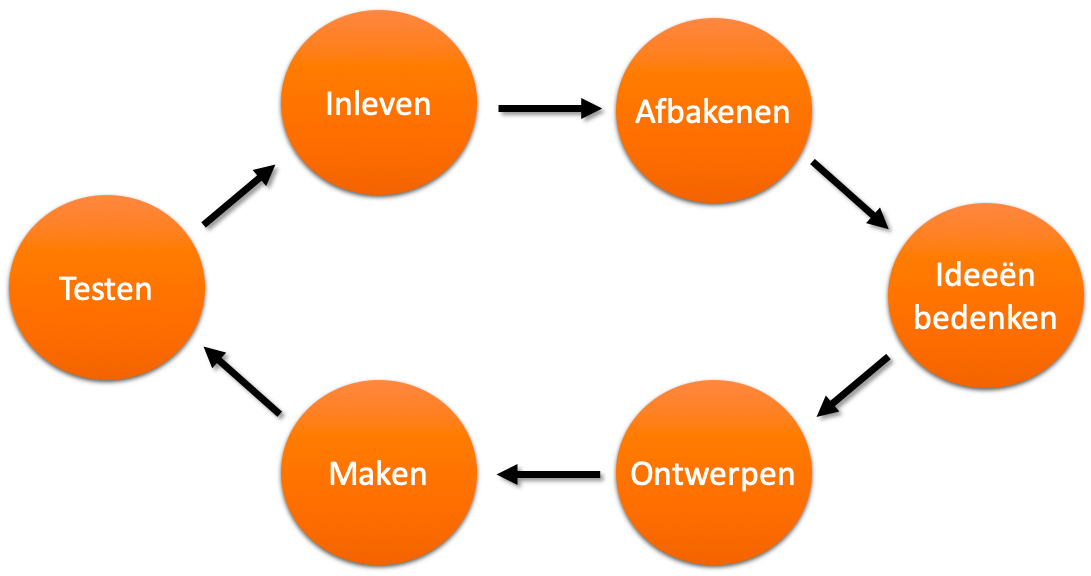
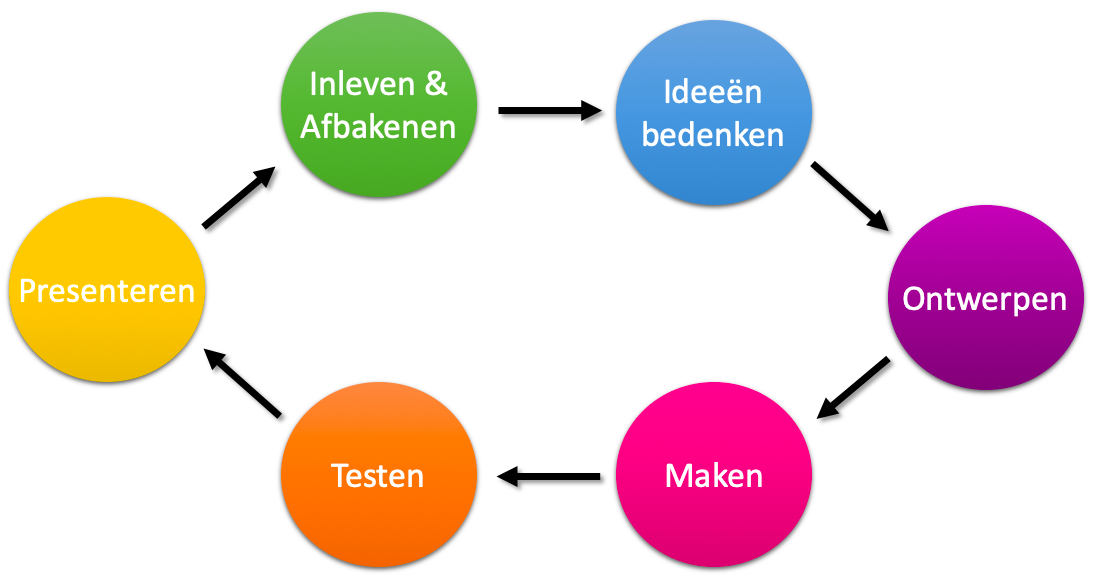
Optimalisatie

diff --git a/README.md b/README.md
@@ -1,19 +1,23 @@
-# Leren Programmeren - vaardigheden voor de 21e eeuw
-Cursusmateriaal voor Leren Programmeren op basis van Scratch en BeeBot
+# Leren Programmeren - vaardigheden van de 21e eeuw
+Cursusmateriaal voor Leren Programmeren op basis van Scratch en BeeBot. Vaardigheden van de 21e eeuw leren door te doen.
 
-## Design thinking
+## Design thinking ("ontwerpend leren")
 "Programmeren" gaat over creatie: het maken van nieuwe dingen. Creatieve mensen kunnen ontzettend goed zijn in programmeren! En er komt meer kijken bij programmeren. Je bent met programmeren bezig met het oplossen van een probleem. En niet zomaar een probleem, maar een probleem van iemand anders! Je kunt je inleven in het probleem van de ander. En je kunt plannen, je kijkt vooruit hoe je dit probleem kunt oplossen. Dit komt samen in de stappen van design thinking:
 
-1. Inleven: je verzamelt informatie over het probleem dat je voor de ander wilt oplossen. Je probeert te begrijpen waar de ander mee zit.
-2. Afbakenen: je kiest wat je wel en niet gaat oplossen. Je kunt niet alles doen! Je bedenkt wat jij kunt oplossen van het probleem van de ander.
-3. Ideeën bedenken: je gaat verzinnen hoe je het probleem kunt oplossen. Niets is hier te gek! Hoe meer ideeën hoe beter!
-4. Ontwerpen: uit alle ideeën kies je wat het beste werkt. Wat het beste het probleem oplost, en door jou goed is te maken. Je beschrijft zo goed mogelijk hoe jou oplossing in elkaar zit, en denkt alvast na wat er eventueel mis kan gaan.
-5. Maken: je gaat aan de slag om je ontwerp te maken!
-6. Testen: nadat het maken van de oplossing, ga je het testen. Je probeert uit of jou oplossing het probleem oplost. Je laat het zien aan anderen, en aan de persoon voor wie je een oplossing hebt bedacht.
+1. Inleven & afbakenen: je verzamelt informatie over het probleem dat je voor de ander wilt oplossen. Je probeert te begrijpen waar de ander mee zit. Je kiest wat je wel en niet gaat oplossen. Je kunt niet alles doen! Je bedenkt wat jij kunt oplossen van het probleem van de ander.
+2. Ideeën bedenken: je gaat verzinnen hoe je het probleem kunt oplossen. Niets is hier te gek! Hoe meer ideeën hoe beter!
+3. Ontwerpen: uit alle ideeën kies je wat het beste werkt. Wat het beste het probleem oplost, en door jou goed is te maken. Je beschrijft zo goed mogelijk hoe jou oplossing in elkaar zit, en denkt alvast na wat er eventueel mis kan gaan.
+4. Maken: je gaat aan de slag om je ontwerp te maken!
+5. Testen: nadat het maken van de oplossing, ga je het testen. Je probeert uit of jou oplossing het probleem oplost. Je laat het zien aan anderen, en aan de persoon voor wie je een oplossing hebt bedacht.
+6. Presenteren: je laat je oplossing zien.
 
 Design thinking is een herhalend proces: het kan zijn dat je oplossing bij het testen toch nog niet helemaal goed is. Geeft niet! Hoe meer je probeert, hoe beter je oplossing wordt. Je hoeft dus niet helemaal opnieuw te beginnen. Je zult zien dat je de stappen steeds sneller zult doorlopen.
 
 ![Design Thinking](/media/design-thinking.png)
+
+Dit filmpje ([deel 1](https://youtu.be/gGuG8Bb5Fpw) en [deel 2](https://youtu.be/6bgHopWrPrg)) geeft een goed beeld van design thinking ("ontwerpend leren") in de klas.
+
+Design thinking is een ontwerpaanpak. Iedereen kan deze aanpak gebruiken bij het maken van nieuwe dingen. Dus ook voor het ontwikkelen van lesmateriaal! Zie ook [slimmerlerenmetict](https://www.slimmerlerenmetict.nl/artikel/waar-kan-ik-design-thinking-voor-inzetten).
 
 ## Leren programmeren in de klas
 
@@ -50,5 +54,5 @@ Het het super leuk om het eindresultaat in de klas te laten zien! Laat de groep 
 ![](media/in-de-klas.png)
 
 ## Vaardigheden van de 21e eeuw
-Met leren programmeren werken we aan de vaardigheden van de 21e eeuw. Op een manier die voor kinderen niet direct wordt ervaren als "in de klas zitten". Mogelijk komt dit doordat de nadruk niet ligt op het het opdoen van kennis, maar op het creatieve proces. En je zit natuurlijk ook niet letterlijk meer "in de klas"! Onderstaand figuur, ontwikkeld door SLO en Kennisnet, geeft een overzicht van deze vaardigheden. Goed zichtbaar is de samenhang tussen deze vaardigheden en design thinking!
+Met leren programmeren werken we aan de vaardigheden van de 21e eeuw. Op een manier die voor kinderen niet direct wordt ervaren als "in de klas zitten". Mogelijk komt dit doordat de nadruk niet ligt op het het opdoen van kennis, maar op het creatieve proces: leren door te doen. En je zit natuurlijk ook niet letterlijk meer "in de klas"! Onderstaand figuur, [ontwikkeld door SLO en Kennisnet](https://www.kennisnet.nl/artikel/alles-wat-je-moet-weten-over-21e-eeuwse-vaardigheden/), geeft een overzicht van deze vaardigheden. Goed zichtbaar is de samenhang tussen deze vaardigheden en design thinking!
 ![](media/21e_eeuwse_vaardigheden.jpg)
